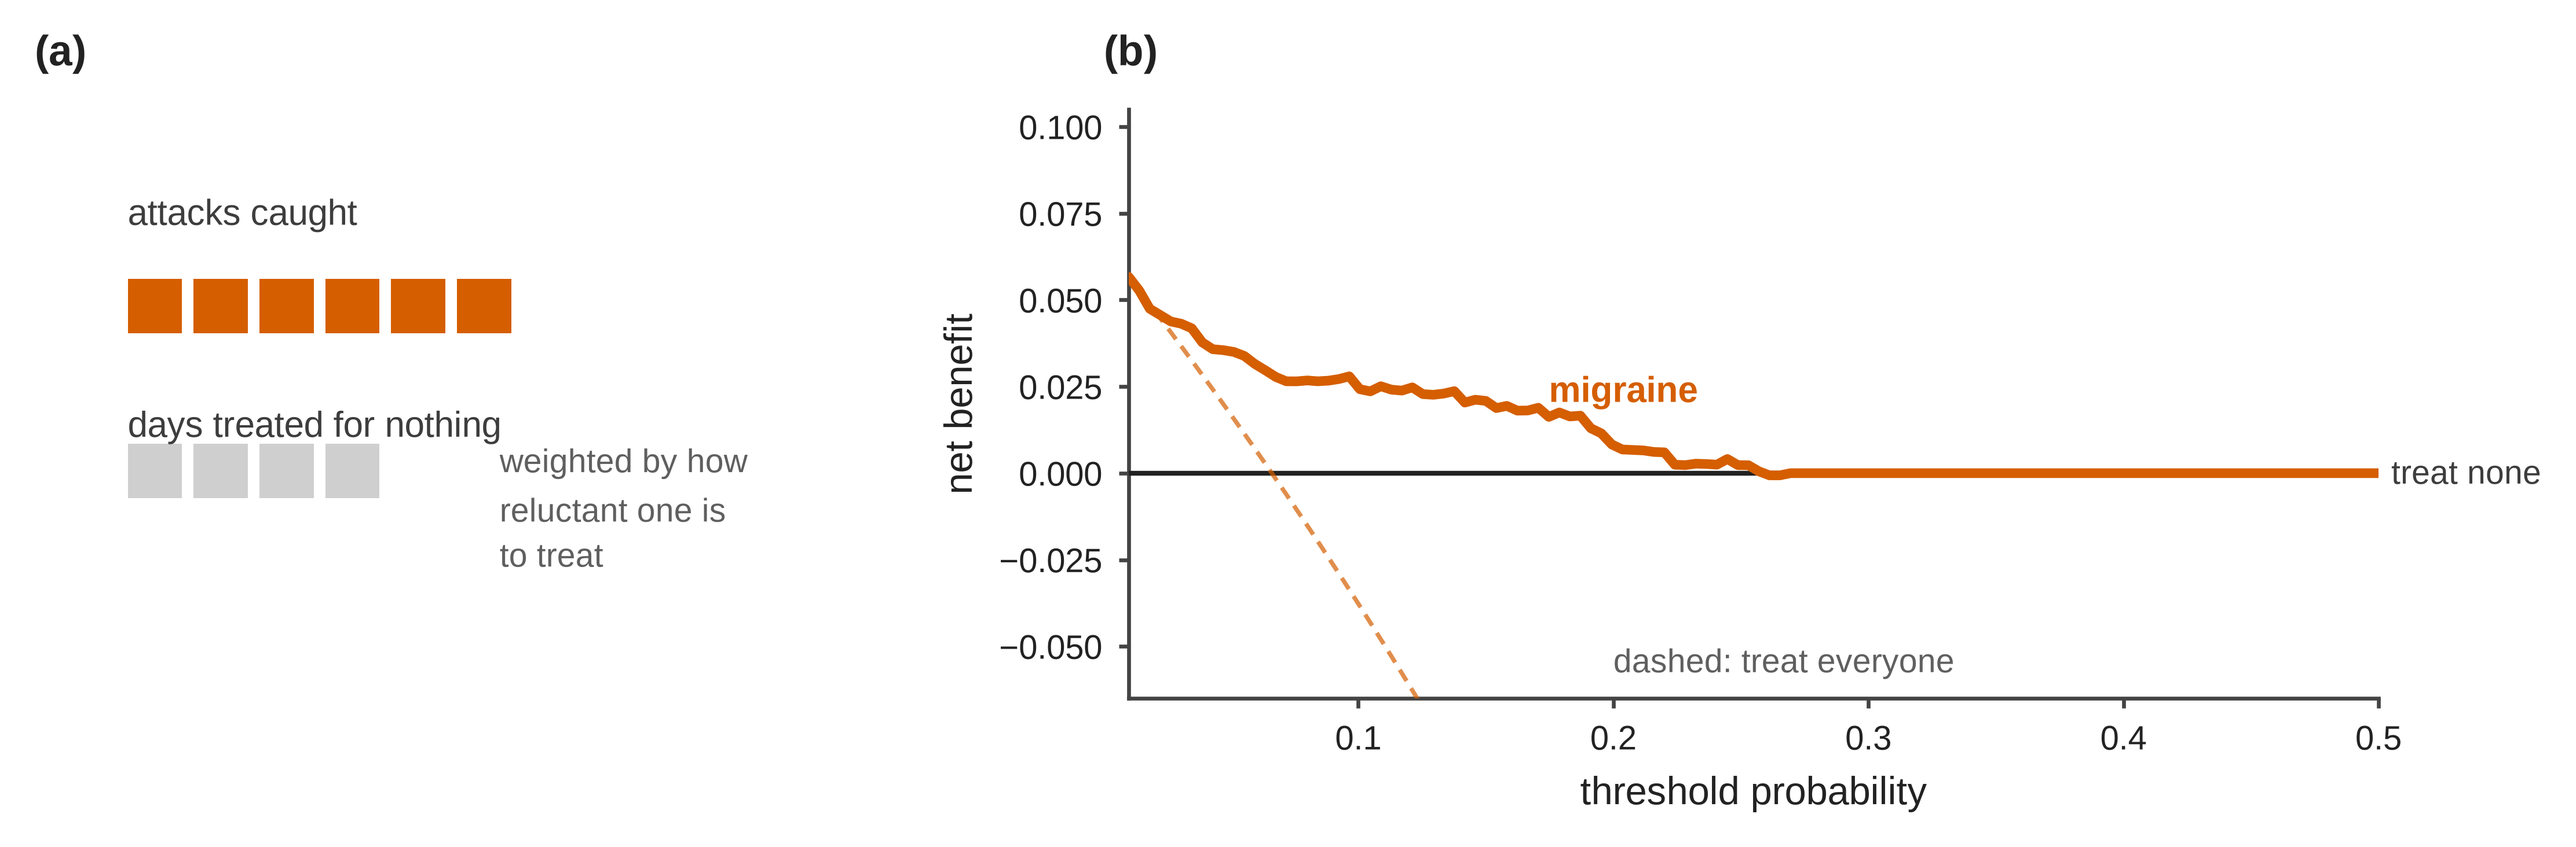
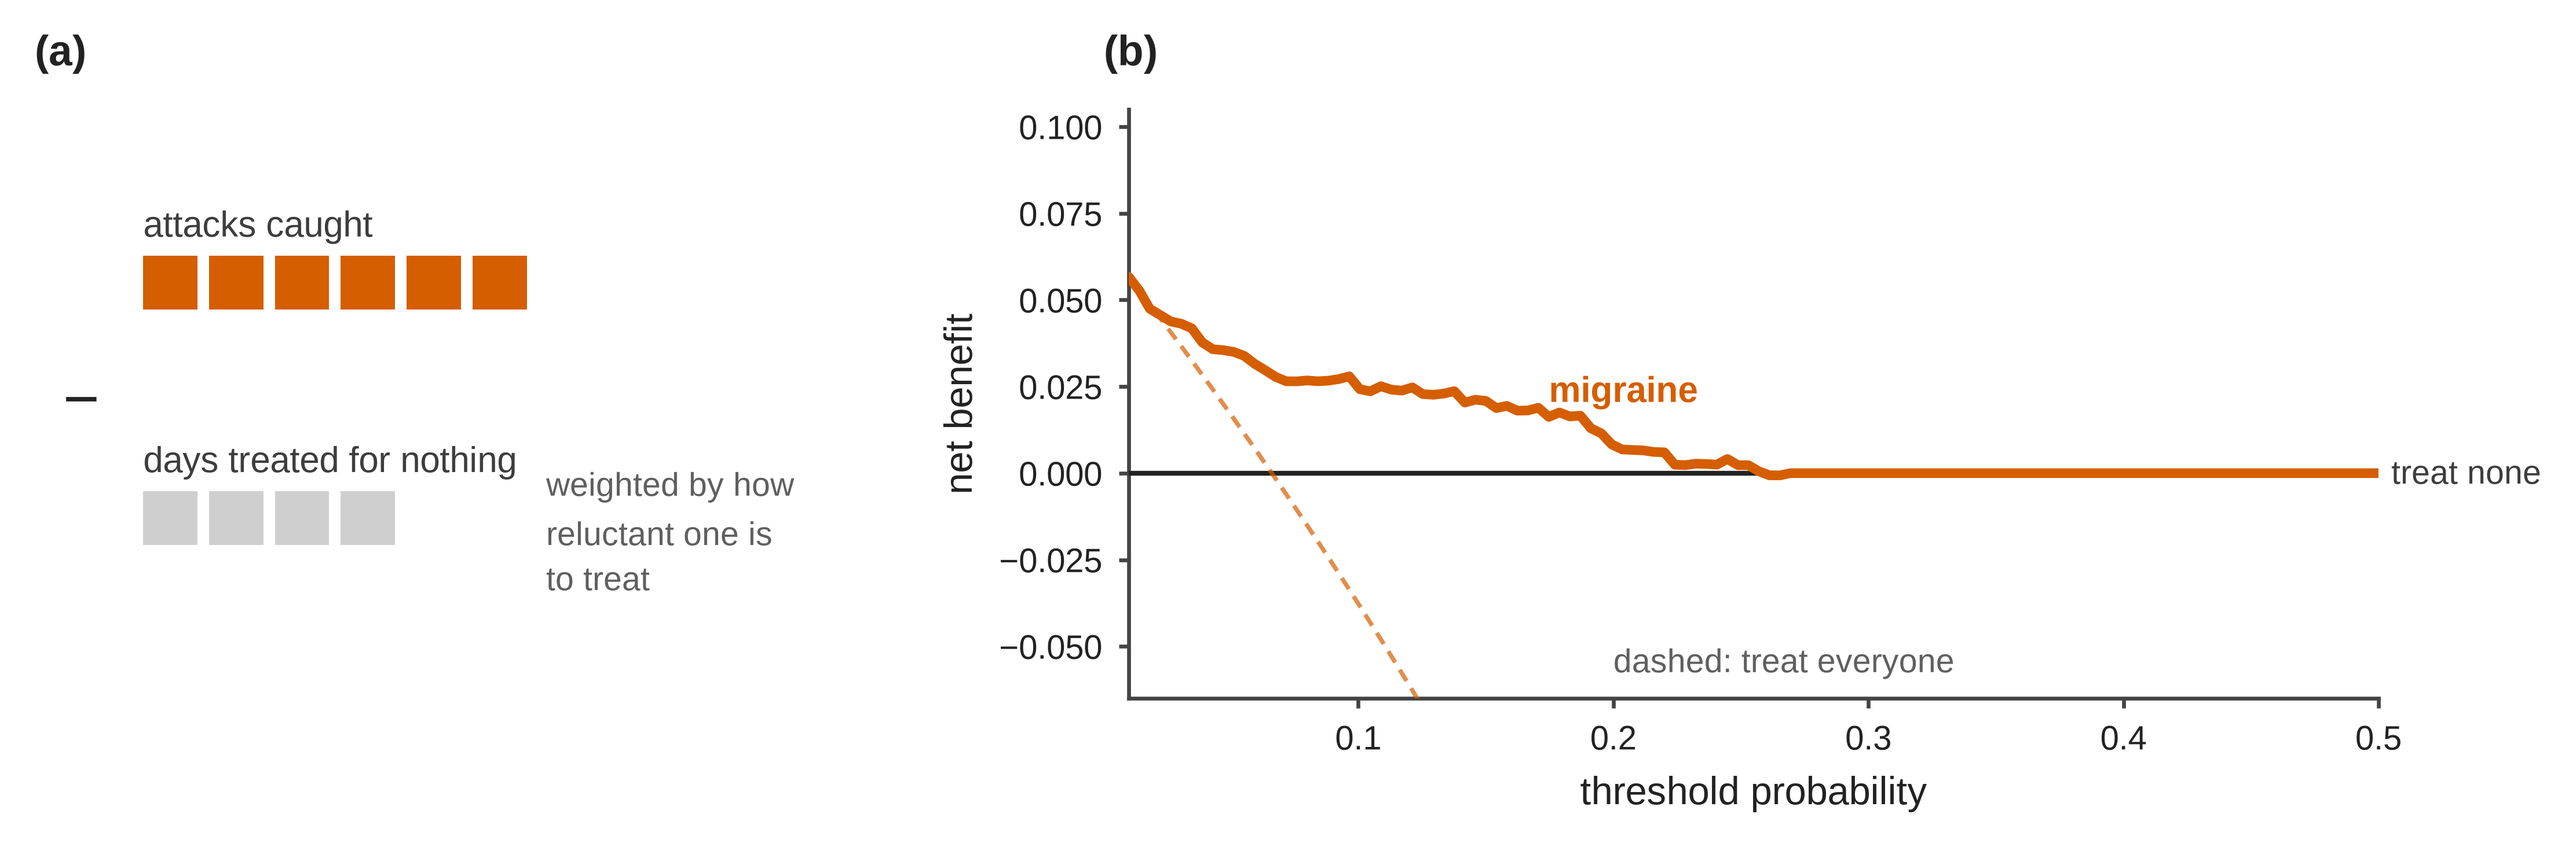
place

Changed region(s): [[0.0312, 0.4918, 0.3125, 0.707], [0.0312, 0.2459, 0.2188, 0.3996]]

diff --git a/docs/methodAndResults_diagramCreatorScripts/fig_m_evaluation_series.py b/docs/methodAndResults_diagramCreatorScripts/fig_m_evaluation_series.py
@@ -139,19 +139,21 @@ def _how_within(ax, att):
 def _how_brier(ax, hea):
     """Brier compares the squared miss of the forecast with that of the patient's rate."""
     ax.axis("off"); ax.set_xlim(0, 100); ax.set_ylim(0, 100)
-    ax.plot([8, 92], [70, 70], color=S.GREY, lw=1.0)
-    for x, t in ((8, "0"), (92, "1")):
+    ax.plot([8, 84], [70, 70], color=S.GREY, lw=1.0)
+    for x, t in ((8, "0"), (84, "1")):
         ax.plot([x, x], [68, 72], color=S.GREY, lw=1.0)
         _lab(ax, x, 63, t, PT_FINE, SECOND, ha="center")
-    ax.plot([92], [70], "o", ms=6, mfc=S.INK, mec="none")
-    _lab(ax, 92, 81, "what happened", PT_BODY, BODY, ha="right")
-    for x, col, lab, side in ((66, hea, "forecast", 1), (36, "#9a9a9a", "own rate", -1)):
+    ax.plot([84], [70], "o", ms=6, mfc=S.INK, mec="none")
+    # centred over the outcome dot, so it cannot be read as labelling the forecast
+    _lab(ax, 84, 81, "what happened", PT_BODY, BODY, ha="center")
+    for x, col, lab in ((60, hea, "forecast"), (34, "#9a9a9a", "own rate")):
         ax.plot([x], [70], "o", ms=6, mfc="white", mec=col, mew=1.6)
-        ax.plot([x, 92], [70, 70], color=col, lw=2.2, alpha=0.55,
+        ax.plot([x, 84], [70, 70], color=col, lw=2.2, alpha=0.55,
                 solid_capstyle="butt")
-        sq = (92 - x) * 0.17
+        sq = (84 - x) * 0.19
         h = _sq(ax, x, 34, sq, col, alpha=0.35, anchor="bottom")
-        ax.plot([x + sq / 2, x + sq / 2], [34 + h, 68], color=col, lw=0.7, alpha=0.45,
+        # from the marker itself to the top of its square, so the pairing is explicit
+        ax.plot([x, x + sq / 2], [68, 34 + h], color=col, lw=0.7, alpha=0.45,
                 zorder=0)
         _lab(ax, x + sq / 2, 28, lab, PT_BODY, BODY, ha="center")
 
@@ -160,12 +162,14 @@ def _how_dca(ax, att):
     """Net benefit trades attacks caught against unnecessary treatment."""
     ax.axis("off"); ax.set_xlim(0, 100); ax.set_ylim(0, 100)
     for i in range(6):
-        _sq(ax, 10 + i * 8.5, 62, 7, att, anchor="bottom")
-    _lab(ax, 10, 82, "attacks caught", PT_BODY, BODY)
+        _sq(ax, 12 + i * 8.5, 66, 7, att, anchor="bottom")
+    _lab(ax, 12, 80, "attacks caught", PT_BODY, BODY)
+    # the operator, so the panel shows a subtraction rather than two unrelated rows
+    ax.text(4, 50, "\u2212", fontsize=13, color=S.INK, ha="center", va="center")
     for i in range(4):
-        _sq(ax, 10 + i * 8.5, 34, 7, "#cfcfcf", anchor="bottom")
-    _lab(ax, 10, 46, "days treated for nothing", PT_BODY, BODY)
-    _lab(ax, 58, 32, "weighted by how\nreluctant one is\nto treat", PT_FINE, SECOND)
+        _sq(ax, 12 + i * 8.5, 26, 7, "#cfcfcf", anchor="bottom")
+    _lab(ax, 12, 40, "days treated for nothing", PT_BODY, BODY)
+    _lab(ax, 64, 28, "weighted by how\nreluctant one is\nto treat", PT_FINE, SECOND)
 
 
 def _skill_panel(ax, rows, cols):
